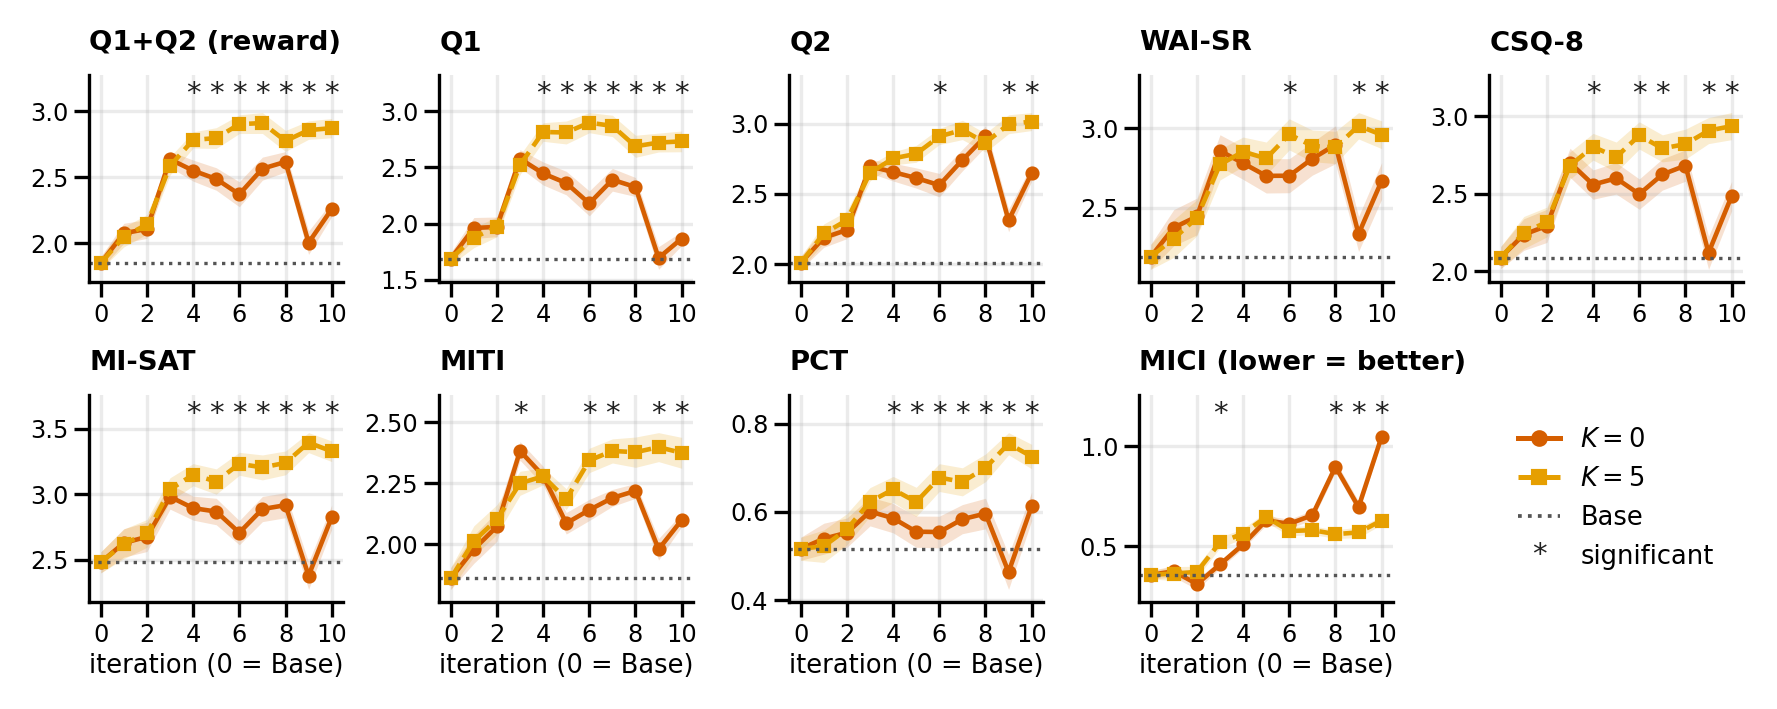
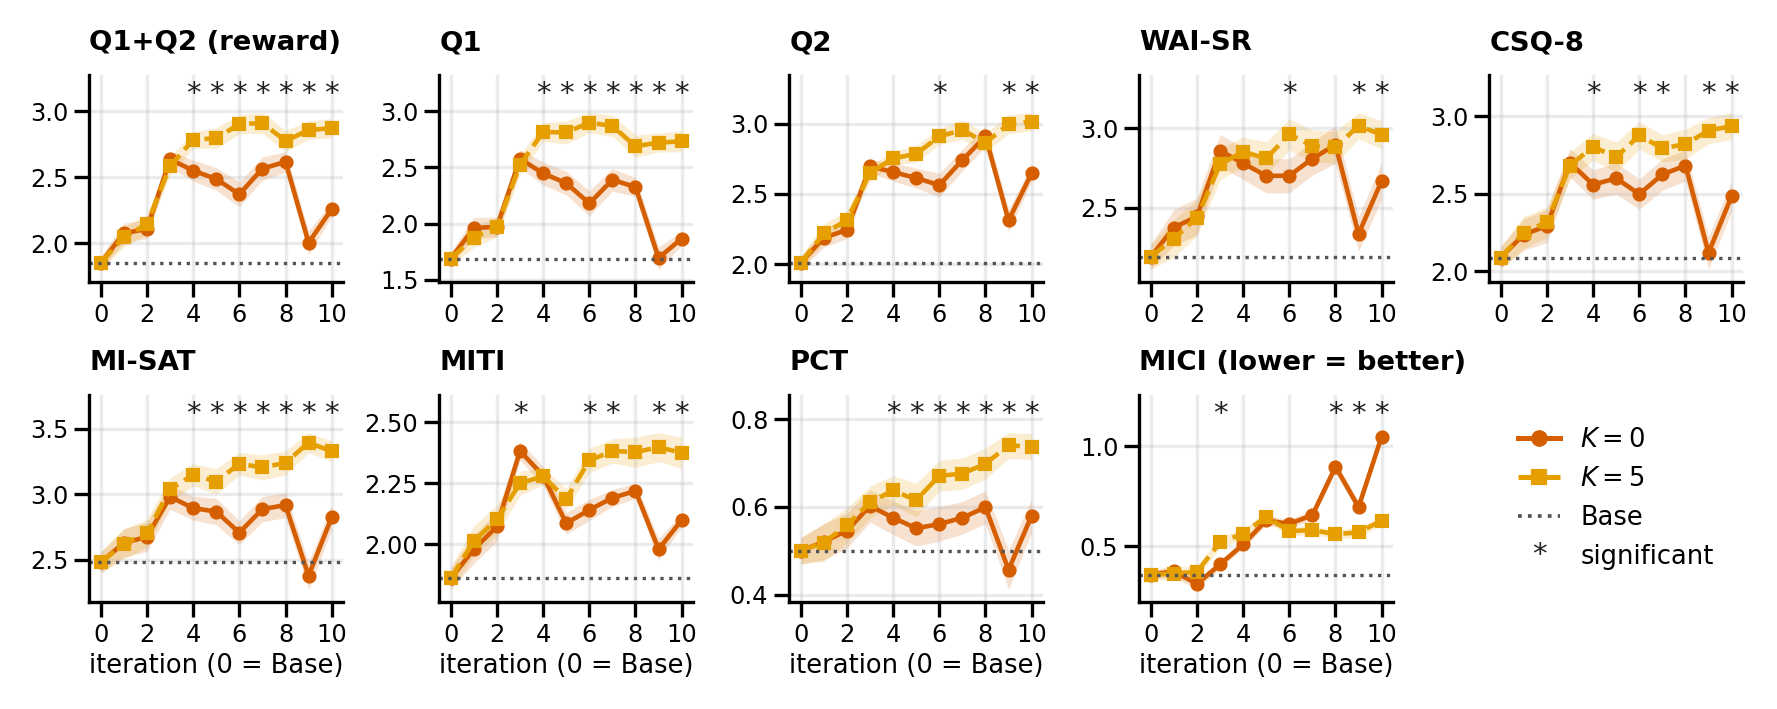
P1 App B: PCT from the utterance coder — Table 9 PCT column, Figure 7, sign agreement 87.9%, the three cells with 94-95 conversations named

Changed region(s): [[0.4024, 0.6206, 0.5881, 0.8068], [0.4024, 0.8378, 0.4643, 0.8688], [0.4024, 0.5896, 0.4643, 0.6206]]

diff --git a/papers/2026_grpo_lookahead_mi/sections/A2_heldout.tex b/papers/2026_grpo_lookahead_mi/sections/A2_heldout.tex
@@ -13,7 +13,7 @@ table (Table~\ref{tab:scores-heldout}) for \S\ref{sec:reward}, the process figur
 \S\ref{sec:patient}.
 
 \textbf{Where it agrees and where it differs.} Across the 21 model states it preserves the sign of
-$88.3\%$ of the pairwise state $\times$ instrument contrasts the training oracle makes
+$87.9\%$ of the pairwise state $\times$ instrument contrasts the training oracle makes
 (Appendix~\ref{app:saturation}), and it agrees on the direction of every contrast at iteration 10
 in the body. On \QQ\ it separates the runs at 7 of the 10 iterations (4--10) where the training
 oracle does at 6. Against $\Kz$'s best checkpoint (iteration 8, chosen by the training oracle)
@@ -81,7 +81,9 @@ units: the two judges code the same turns differently (Table~\ref{tab:codes}).}
 \centering
 \includegraphics[width=0.94\textwidth]{figures/levels_grid_grpo_claude-haiku-4-5.png}
 \caption{Figure~\ref{fig:headline} under the held-out judge: every instrument by iteration, mean
-$\pm$ SE over the 96 personas (the Base: over its 192 conversations, two per persona), from the Base (dotted line); a star marks a significant $\Kf$ vs.\
+$\pm$ SE over the 96 personas (the Base: over its 192 conversations, two per persona), from the Base (dotted line);
+PCT at $\Kz$'s iterations 1 and 3 and $\Kf$'s iteration 1 leaves out the four conversations with
+neither change nor sustain talk (Appendix~\ref{app:instruments}); a star marks a significant $\Kf$ vs.\
 $\Kz$ contrast, which at iteration 3 favors $\Kz$ on MITI and MICI. Levels are in this judge's own
 units and are not comparable to Figure~\ref{fig:headline}'s.}
 \label{fig:grid-heldout}
@@ -96,35 +98,37 @@ units and are not comparable to Figure~\ref{fig:headline}'s.}
 \toprule
 Iteration & \QQ & Q1 & Q2 & WAI-SR & CSQ-8 & MI-SAT & MITI & PCT & MICI ($\downarrow$)\\
 \midrule
-Base & $1.848$ & $1.688$ & $2.008$ & $2.194$ & $2.089$ & $2.480$ & $1.859$ & $0.516$ & $0.355$\\
+Base & $1.848$ & $1.688$ & $2.008$ & $2.194$ & $2.089$ & $2.480$ & $1.859$ & $0.500$ & $0.355$\\
 \midrule
 \multicolumn{10}{@{}l}{\emph{$K{=}0$}}\\
-1 & $2.074$ & $1.960$ & $2.188$ & $2.377$ & $2.237$ & $2.628$ & $1.979$ & $0.539$ & $0.373$\\
-2 & $2.107$ & $1.971$ & $2.243$ & $2.446$ & $2.293$ & $2.675$ & $2.073$ & $0.553$ & $\mathbf{0.309}$\\
-3 & $2.637$ & $2.577$ & $2.696$ & $2.858$ & $2.699$ & $2.981$ & $2.383$\rlap{$^{*}$} & $0.601$ & $0.407$\rlap{$^{*}$}\\
-4 & $2.550$ & $2.446$ & $2.655$ & $2.780$ & $2.559$ & $2.894$ & $2.281$ & $0.586$ & $0.508$\\
-5 & $2.487$ & $2.360$ & $2.613$ & $2.701$ & $2.599$ & $2.868$ & $2.086$ & $0.555$ & $0.629$\\
-6 & $2.371$ & $2.179$ & $2.562$ & $2.701$ & $2.497$ & $2.707$ & $2.141$ & $0.554$ & $0.612$\\
-7 & $2.565$ & $2.390$ & $2.741$ & $2.808$ & $2.624$ & $2.887$ & $2.190$ & $0.583$ & $0.655$\\
-8 & $2.617$ & $2.325$ & $2.909$ & $2.895$ & $2.681$ & $2.917$ & $2.219$ & $0.596$ & $0.898$\\
-9 & $2.002$ & $1.694$ & $2.311$ & $2.337$ & $2.120$ & $2.378$ & $1.979$ & $0.463$ & $0.696$\\
-10 & $2.257$ & $1.867$ & $2.648$ & $2.669$ & $2.484$ & $2.825$ & $2.099$ & $0.612$ & $1.050$\\
+1 & $2.074$ & $1.960$ & $2.188$ & $2.377$ & $2.237$ & $2.628$ & $1.979$ & $0.520$ & $0.373$\\
+2 & $2.107$ & $1.971$ & $2.243$ & $2.446$ & $2.293$ & $2.675$ & $2.073$ & $0.546$ & $\mathbf{0.309}$\\
+3 & $2.637$ & $2.577$ & $2.696$ & $2.858$ & $2.699$ & $2.981$ & $2.383$\rlap{$^{*}$} & $0.602$ & $0.407$\rlap{$^{*}$}\\
+4 & $2.550$ & $2.446$ & $2.655$ & $2.780$ & $2.559$ & $2.894$ & $2.281$ & $0.575$ & $0.508$\\
+5 & $2.487$ & $2.360$ & $2.613$ & $2.701$ & $2.599$ & $2.868$ & $2.086$ & $0.551$ & $0.629$\\
+6 & $2.371$ & $2.179$ & $2.562$ & $2.701$ & $2.497$ & $2.707$ & $2.141$ & $0.561$ & $0.612$\\
+7 & $2.565$ & $2.390$ & $2.741$ & $2.808$ & $2.624$ & $2.887$ & $2.190$ & $0.575$ & $0.655$\\
+8 & $2.617$ & $2.325$ & $2.909$ & $2.895$ & $2.681$ & $2.917$ & $2.219$ & $0.599$ & $0.898$\\
+9 & $2.002$ & $1.694$ & $2.311$ & $2.337$ & $2.120$ & $2.378$ & $1.979$ & $0.457$ & $0.696$\\
+10 & $2.257$ & $1.867$ & $2.648$ & $2.669$ & $2.484$ & $2.825$ & $2.099$ & $0.580$ & $1.050$\\
 \midrule
 \multicolumn{10}{@{}l}{\emph{$K{=}5$}}\\
-1 & $2.046$ & $1.875$ & $2.218$ & $2.308$ & $2.250$ & $2.622$ & $2.013$ & $0.522$ & $0.362$\\
-2 & $2.142$ & $1.971$ & $2.312$ & $2.438$ & $2.318$ & $2.701$ & $2.102$ & $0.560$ & $0.370$\\
-3 & $2.586$ & $2.523$ & $2.649$ & $2.772$ & $2.681$ & $3.036$ & $2.250$ & $0.623$ & $0.518$\\
-4 & $2.784$\rlap{$^{*}$} & $2.815$\rlap{$^{*}$} & $2.752$ & $2.852$ & $2.802$\rlap{$^{*}$} & $3.149$\rlap{$^{*}$} & $2.279$ & $0.651$\rlap{$^{*}$} & $0.562$\\
-5 & $2.798$\rlap{$^{*}$} & $2.810$\rlap{$^{*}$} & $2.785$ & $2.810$ & $2.736$ & $3.097$\rlap{$^{*}$} & $2.185$ & $0.622$\rlap{$^{*}$} & $0.647$\\
-6 & $2.903$\rlap{$^{*}$} & $\mathbf{2.898}$\rlap{$^{*}$} & $2.909$\rlap{$^{*}$} & $2.960$\rlap{$^{*}$} & $2.875$\rlap{$^{*}$} & $3.233$\rlap{$^{*}$} & $2.344$\rlap{$^{*}$} & $0.677$\rlap{$^{*}$} & $0.575$\\
-7 & $\mathbf{2.912}$\rlap{$^{*}$} & $2.869$\rlap{$^{*}$} & $2.955$ & $2.888$ & $2.792$\rlap{$^{*}$} & $3.205$\rlap{$^{*}$} & $2.383$\rlap{$^{*}$} & $0.668$\rlap{$^{*}$} & $0.580$\\
-8 & $2.776$\rlap{$^{*}$} & $2.688$\rlap{$^{*}$} & $2.864$ & $2.878$ & $2.819$ & $3.240$\rlap{$^{*}$} & $2.378$ & $0.700$\rlap{$^{*}$} & $0.560$\rlap{$^{*}$}\\
-9 & $2.858$\rlap{$^{*}$} & $2.721$\rlap{$^{*}$} & $2.996$\rlap{$^{*}$} & $\mathbf{3.014}$\rlap{$^{*}$} & $2.906$\rlap{$^{*}$} & $\mathbf{3.394}$\rlap{$^{*}$} & $\mathbf{2.398}$\rlap{$^{*}$} & $\mathbf{0.754}$\rlap{$^{*}$} & $0.568$\rlap{$^{*}$}\\
-10 & $2.873$\rlap{$^{*}$} & $2.731$\rlap{$^{*}$} & $\mathbf{3.015}$\rlap{$^{*}$} & $2.957$\rlap{$^{*}$} & $\mathbf{2.935}$\rlap{$^{*}$} & $3.328$\rlap{$^{*}$} & $2.375$\rlap{$^{*}$} & $0.725$\rlap{$^{*}$} & $0.628$\rlap{$^{*}$}\\
+1 & $2.046$ & $1.875$ & $2.218$ & $2.308$ & $2.250$ & $2.622$ & $2.013$ & $0.519$ & $0.362$\\
+2 & $2.142$ & $1.971$ & $2.312$ & $2.438$ & $2.318$ & $2.701$ & $2.102$ & $0.558$ & $0.370$\\
+3 & $2.586$ & $2.523$ & $2.649$ & $2.772$ & $2.681$ & $3.036$ & $2.250$ & $0.611$ & $0.518$\\
+4 & $2.784$\rlap{$^{*}$} & $2.815$\rlap{$^{*}$} & $2.752$ & $2.852$ & $2.802$\rlap{$^{*}$} & $3.149$\rlap{$^{*}$} & $2.279$ & $0.638$\rlap{$^{*}$} & $0.562$\\
+5 & $2.798$\rlap{$^{*}$} & $2.810$\rlap{$^{*}$} & $2.785$ & $2.810$ & $2.736$ & $3.097$\rlap{$^{*}$} & $2.185$ & $0.615$\rlap{$^{*}$} & $0.647$\\
+6 & $2.903$\rlap{$^{*}$} & $\mathbf{2.898}$\rlap{$^{*}$} & $2.909$\rlap{$^{*}$} & $2.960$\rlap{$^{*}$} & $2.875$\rlap{$^{*}$} & $3.233$\rlap{$^{*}$} & $2.344$\rlap{$^{*}$} & $0.671$\rlap{$^{*}$} & $0.575$\\
+7 & $\mathbf{2.912}$\rlap{$^{*}$} & $2.869$\rlap{$^{*}$} & $2.955$ & $2.888$ & $2.792$\rlap{$^{*}$} & $3.205$\rlap{$^{*}$} & $2.383$\rlap{$^{*}$} & $0.676$\rlap{$^{*}$} & $0.580$\\
+8 & $2.776$\rlap{$^{*}$} & $2.688$\rlap{$^{*}$} & $2.864$ & $2.878$ & $2.819$ & $3.240$\rlap{$^{*}$} & $2.378$ & $0.699$\rlap{$^{*}$} & $0.560$\rlap{$^{*}$}\\
+9 & $2.858$\rlap{$^{*}$} & $2.721$\rlap{$^{*}$} & $2.996$\rlap{$^{*}$} & $\mathbf{3.014}$\rlap{$^{*}$} & $2.906$\rlap{$^{*}$} & $\mathbf{3.394}$\rlap{$^{*}$} & $\mathbf{2.398}$\rlap{$^{*}$} & $\mathbf{0.740}$\rlap{$^{*}$} & $0.568$\rlap{$^{*}$}\\
+10 & $2.873$\rlap{$^{*}$} & $2.731$\rlap{$^{*}$} & $\mathbf{3.015}$\rlap{$^{*}$} & $2.957$\rlap{$^{*}$} & $\mathbf{2.935}$\rlap{$^{*}$} & $3.328$\rlap{$^{*}$} & $2.375$\rlap{$^{*}$} & $0.738$\rlap{$^{*}$} & $0.628$\rlap{$^{*}$}\\
 \bottomrule
 \end{tabular}
 \caption{Table~\ref{tab:scores} under the held-out judge: every instrument at every iteration, the
-mean over the 96 personas (the Base: over its 192 conversations, two per persona), bold on the best
+mean over the 96 personas (the Base: over its 192 conversations, two per persona; PCT at $\Kz$'s
+iterations 1 and 3 and $\Kf$'s iteration 1: over 94, 95 and 95, Appendix~\ref{app:instruments}),
+bold on the best
 value in each column (the lowest for MICI) over all 21 model states, the Base included (a level, not
 a test), a star on the better run where the $\Kf$ vs.\ $\Kz$ contrast is significant (Holm across
 iterations 1--10 within instrument; one star for any Holm $p<.05$). The two stars on $\Kz$ cells
